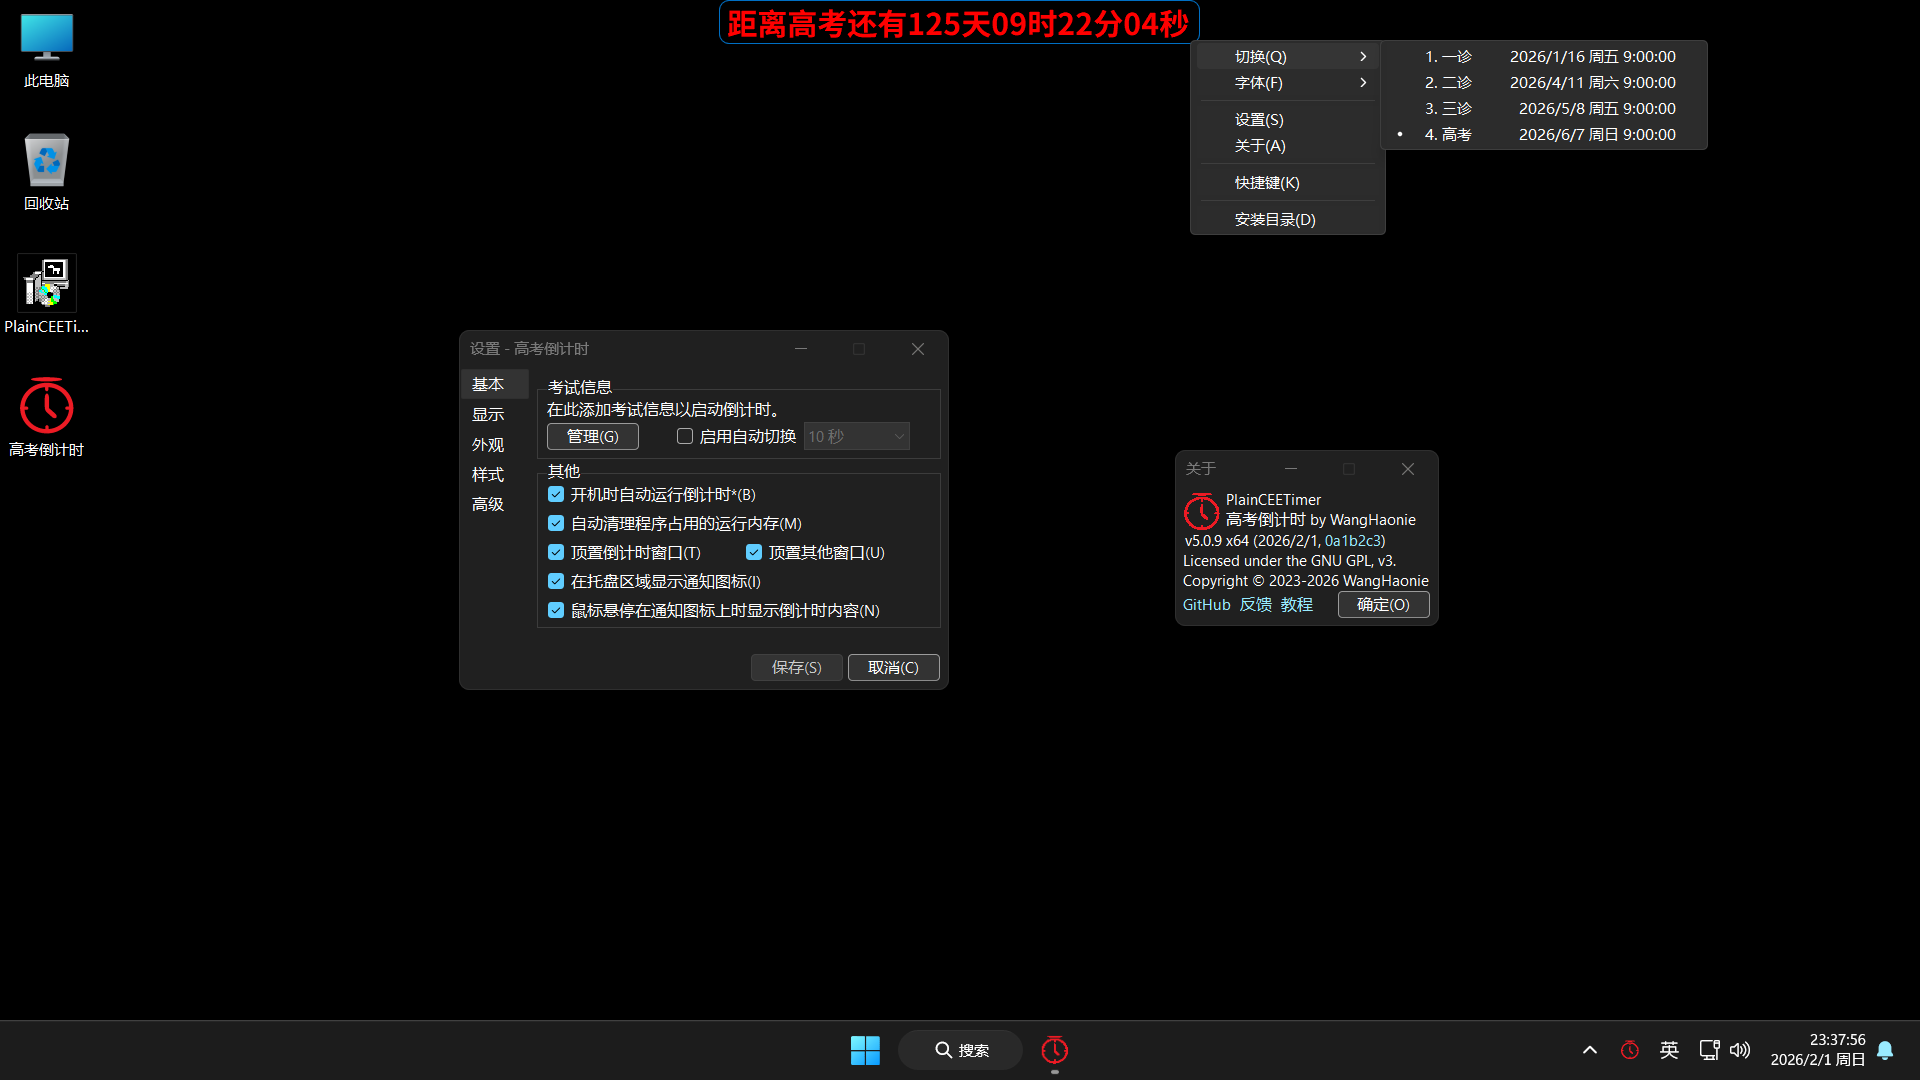
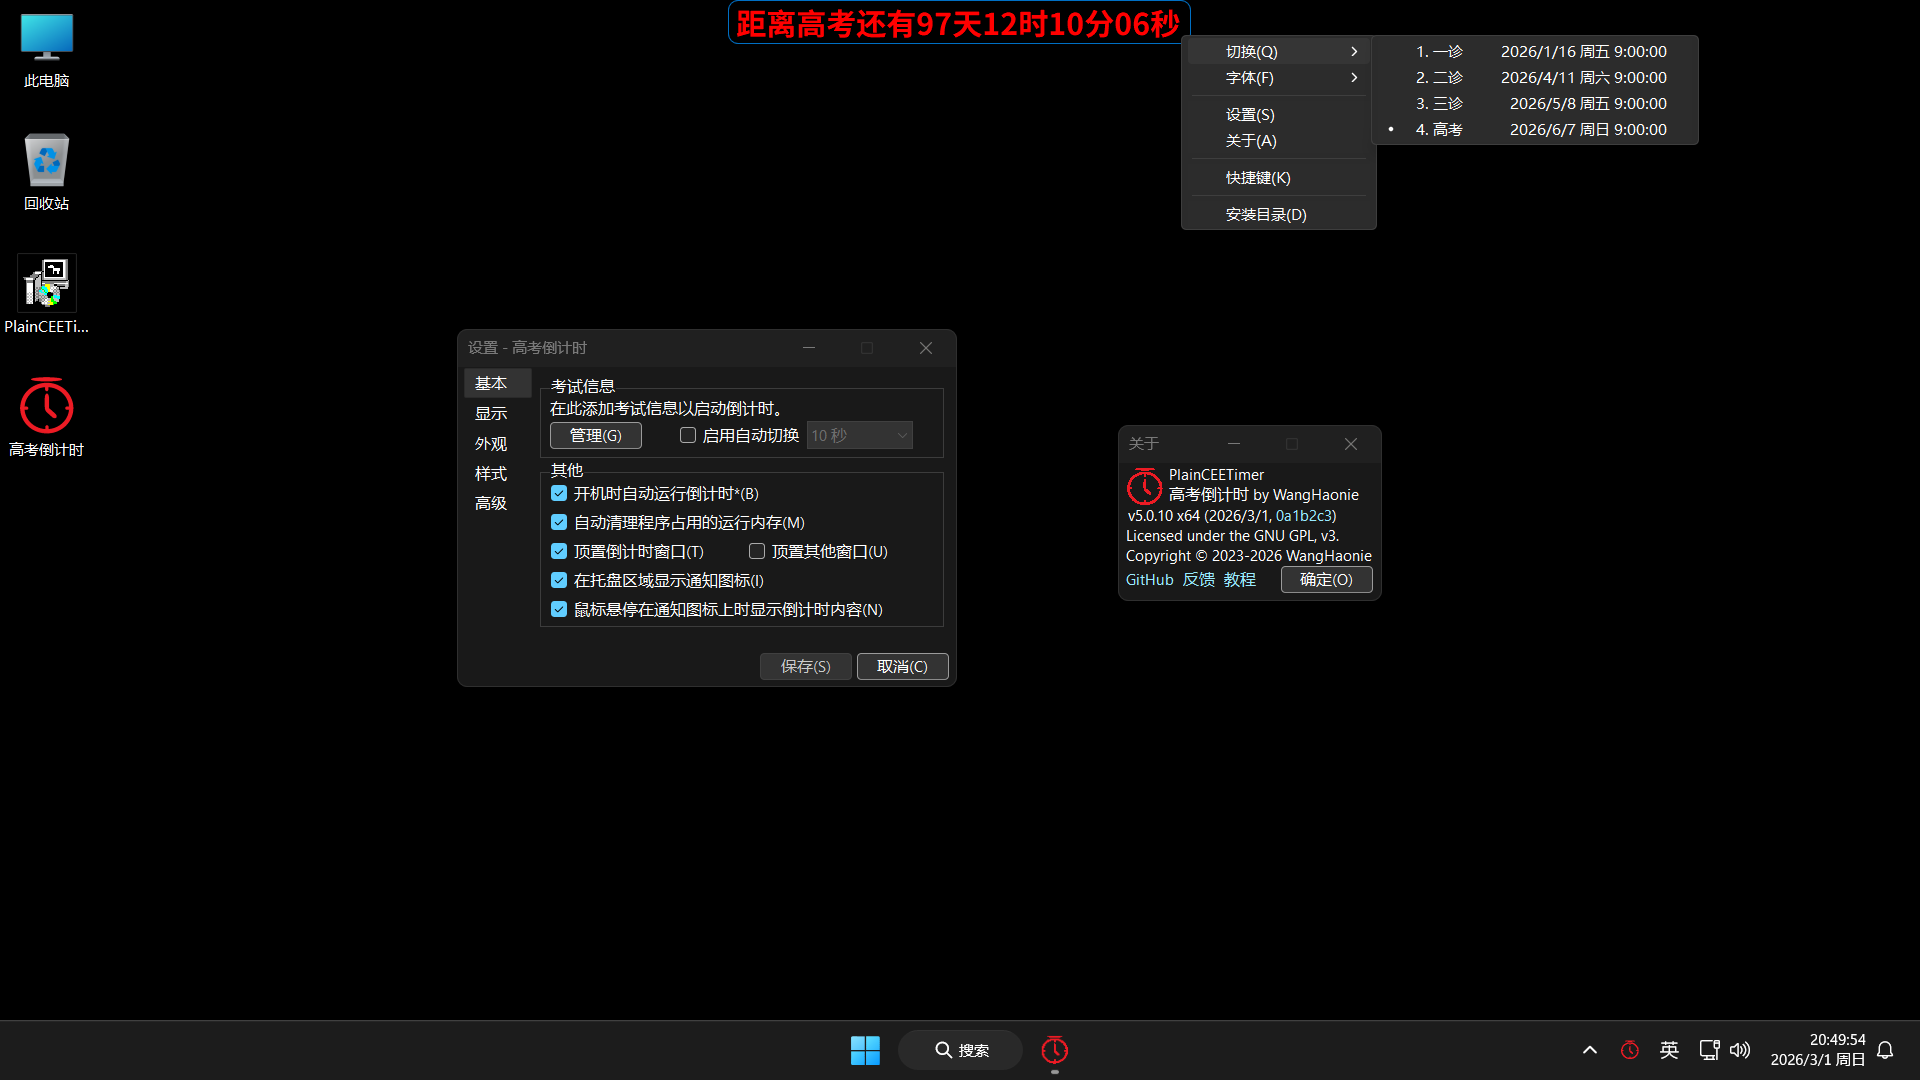
📢 发布了 v5.0.10

diff --git a/.github/Manual.md b/.github/Manual.md
@@ -1,6 +1,6 @@
 <div align="center">
     <h1>PlainCEETimer 用户手册</h1>
-    <h4>适用于 v5.0.9 | 修订日期 2026/2/2</h4>
+    <h4>适用于 v5.0.10 | 修订日期 2026/3/1</h4>
 </div>
 
 # 📖 目录
@@ -16,6 +16,7 @@
     * [🎉 特性](#-特性-1)
     * [✨ 选项说明](#-选项说明-1)
 - [🎯 设置窗口使用说明](#-设置窗口使用说明)
+    * [✨ 系统菜单](#-系统菜单)
     * [✨ 基本](#-基本)
     * [✨ 显示](#-显示)
     * [✨ 外观](#-外观)
@@ -123,6 +124,17 @@
 | **关闭** | 可在此快速 **重启/退出** 倒计时 | 在 **设置>工具** 里也有相同的功能。 |
 
 # 🎯 设置窗口使用说明
+
+## ✨ 系统菜单
+
+> [!TIP]
+> 右键单击标题栏即可显示系统菜单。
+
+| **选项名称** | **功能说明** | **注意** |
+| ----- | ---- | ---- |
+| **导入配置** | 选择并导入配置文件 |  |
+| **导出配置** | 选择并导出配置文件 |  |
+
 ## ✨ 基本
 | **选项名称** | **功能说明** | **注意** |
 | ----- | ---- | ---- |
@@ -340,7 +352,9 @@
 > [!IMPORTANT]
 > 由于 Windows 系统 ShellExecute 机制的限制，在非管理员下运行相关命令时，无法通过常规的方式实时获取提权后的输出。本程序采用的方式也勉强够用，因此偶尔出现的排版错误是正常情况。不过在管理员账户下不易出现此问题。
 
-用于实时显示一些外部命令的输出，右键文本框可以全选/复制内容。
+用于实时显示一些外部命令的输出，右键文本框可以全选/复制内容。在命令运行期间不能关闭该窗口。
+
+若命令超过 10s 未完成且处于异常情况，可以点击 10 次关闭按钮来强制退出该窗口。
 
 # 🎯 FileDialogWrapper 对话框使用说明
 
@@ -362,13 +376,13 @@
 # 🎯 命令行选项
 
 > [!TIP]
-> 进入方法：在 **设置>工具>** 中 `Ctrl` + `鼠标左键`单击 **重启倒计时** 按钮。
+> 进入方法：在 **设置>工具>** 中`Ctrl`+`鼠标左键`单击 **重启倒计时** 按钮。
 
 | **选项** | **功能说明** | **注意** |
 | ----- | ---- | ---- |
-| `/h` `/?` | 显示帮助信息。 |  |
+| `/?`, `/h` | 显示帮助信息。 |  |
 | `/ac` | 检测当前用户是否具有管理员权限。 |  |
-| `/fr [<版本号>]` | 强制下载并安装指定的版本，**留空**则当前版本，推荐在特殊情况下使用，不支持老版本。 | 这玩意儿在更新功能抽风的时候贼好用。比如使用 `PlainCEETimer.exe /fr` 强制下载并安装当前版本，使用 `/fr 3.0` 则下载 `3.0` 版本 (这里仅供演示，实际不能下载老版本)。 |
+| `/fr [<版本号>] [/src <UpdateSource>]` | 强制下载并安装指定的版本，**留空**则当前版本，推荐在特殊情况下使用，不支持老版本。可用的更新源: [ **GiteeStable,0** \| **GitHubStable,1** \| **GiteeCI,2** \| **GitHubCI,3** ]。默认 **GiteeStable,0** | 这玩意儿在更新功能抽风的时候贼好用。比如使用 `PlainCEETimer.exe /fr` 强制下载并安装当前版本，使用 `/fr 3.0` 则下载 `3.0` 版本 (这里仅供演示，实际不能下载老版本)。 |
 | `/op` | 优化程序运行速度。 | 提升一定的运行速度。推荐在以下情况下使用：首次运行本程序、清理过系统垃圾 (特别是 .NET 缓存) 之后、其他情况导致的肉眼明显感知到程序运行速度变慢。 |
 | `/lnk [/custom]` | 向开始菜单文件夹和桌面创建指向本程序的快捷方式，若加上 `/custom` 表示用户将自行选择保存快捷方式的文件夹。 | 可用于某些情况快速恢复程序的快捷方式。 |
 
